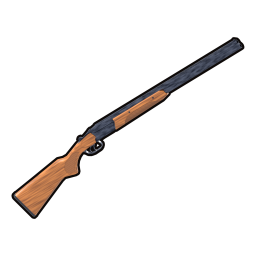
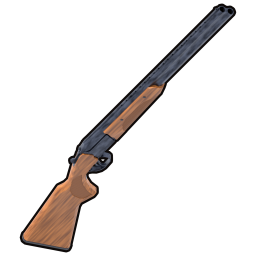
context: 10.10, вторая сессия — кнопки сюжета в меню отладки, ожидание у старосты, два слота оружия и кнопка ножа, карманный компьютер с картой; скрипты съёмки карты и значка

Changed region(s): [[0.0312, 0.0, 0.9688, 1.0]]

diff --git a/scripts/ue-remote/pda_map_capture_1010.py b/scripts/ue-remote/pda_map_capture_1010.py
@@ -1,0 +1,24 @@
+import unreal
+les = unreal.get_editor_subsystem(unreal.LevelEditorSubsystem)
+print('PIE', les.is_in_play_in_editor())
+w = unreal.get_editor_subsystem(unreal.UnrealEditorSubsystem).get_editor_world()
+print('WORLD', w.get_path_name())
+OUT = 'E:/game-dev-team/assets/pda_map_1010'
+rt = unreal.RenderingLibrary.create_render_target2d(w, 2048, 2048, unreal.TextureRenderTargetFormat.RTF_RGBA8)
+eas = unreal.get_editor_subsystem(unreal.EditorActorSubsystem)
+cap = eas.spawn_actor_from_class(unreal.SceneCapture2D, unreal.Vector(5500.0, -4370.0, 30000.0), unreal.Rotator(roll=0.0, pitch=-90.0, yaw=90.0))
+c = cap.capture_component2d
+c.set_editor_property('projection_type', unreal.CameraProjectionMode.ORTHOGRAPHIC)
+c.set_editor_property('ortho_width', 46875.0)
+c.set_editor_property('texture_target', rt)
+c.set_editor_property('capture_source', unreal.SceneCaptureSource.SCS_FINAL_COLOR_LDR)
+c.set_editor_property('capture_every_frame', False)
+pp = c.get_editor_property('post_process_settings')
+pp.set_editor_property('override_vignette_intensity', True); pp.set_editor_property('vignette_intensity', 0.0)
+pp.set_editor_property('override_auto_exposure_bias', True); pp.set_editor_property('auto_exposure_bias', 2.0)
+c.set_editor_property('post_process_settings', pp); c.set_editor_property('post_process_blend_weight', 1.0)
+c.capture_scene()
+unreal.RenderingLibrary.export_render_target(w, rt, OUT, 'T_PdaMap_raw.png')
+print('ROT', cap.get_actor_rotation(), 'UP', cap.get_actor_up_vector(), 'RIGHT', cap.get_actor_right_vector())
+eas.destroy_actor(cap)
+print('DIRTY maps', [p.get_name() for p in unreal.EditorLoadingAndSavingUtils.get_dirty_map_packages()])

diff --git a/scripts/ue-remote/reimport_shotgun_icon_1010.py b/scripts/ue-remote/reimport_shotgun_icon_1010.py
@@ -1,0 +1,11 @@
+import unreal
+eal = unreal.EditorAssetLibrary; at = unreal.AssetToolsHelpers.get_asset_tools()
+print('PIE', unreal.get_editor_subsystem(unreal.LevelEditorSubsystem).is_in_play_in_editor())
+ref = unreal.load_asset('/Game/UI/Icons/Items/T_Item_Pistol')
+PROPS = ['compression_settings', 'lod_group', 'mip_gen_settings', 'srgb', 'never_stream', 'filter']
+n = 'T_Item_Shotgun'
+t = unreal.AssetImportTask()
+for k, v in [('filename', 'E:/game-dev-team/assets/icons_1010/' + n + '.png'), ('destination_path', '/Game/UI/Icons/Items'), ('destination_name', n), ('replace_existing', True), ('automated', True), ('save', False)]: t.set_editor_property(k, v)
+at.import_asset_tasks([t]); tex = unreal.load_asset('/Game/UI/Icons/Items/' + n)
+for k in PROPS: tex.set_editor_property(k, ref.get_editor_property(k))
+print('ICON', n, tex.blueprint_get_size_x(), tex.blueprint_get_size_y(), eal.save_loaded_asset(tex, False))

diff --git a/scripts/ue-remote/pda_map_import_1010.py b/scripts/ue-remote/pda_map_import_1010.py
@@ -1,0 +1,10 @@
+import unreal
+eal = unreal.EditorAssetLibrary; at = unreal.AssetToolsHelpers.get_asset_tools()
+t = unreal.AssetImportTask()
+for k, v in [('filename', 'E:/game-dev-team/assets/pda_map_1010/T_PdaMap.png'), ('destination_path', '/Game/UI/Textures'), ('destination_name', 'T_PdaMap'), ('replace_existing', True), ('automated', True), ('save', False)]: t.set_editor_property(k, v)
+at.import_asset_tasks([t]); tex = unreal.load_asset('/Game/UI/Textures/T_PdaMap')
+tex.set_editor_property('lod_group', unreal.TextureGroup.TEXTUREGROUP_UI)
+tex.set_editor_property('mip_gen_settings', unreal.TextureMipGenSettings.TMGS_NO_MIPMAPS)
+tex.set_editor_property('never_stream', True); tex.set_editor_property('srgb', True)
+tex.set_editor_property('max_texture_size', 1024)
+print('MAP', tex.blueprint_get_size_x(), tex.blueprint_get_size_y(), eal.save_loaded_asset(tex, False))

diff --git a/assets/icons_1010/_work/icon_render.py b/assets/icons_1010/_work/icon_render.py
@@ -77,7 +77,7 @@ if mode == 'shotgun':
             print('MATERIAL %-22s %-10s -> %s' % (o.name, s.material.name, swap[s.material.name].name)); s.material = swap[s.material.name]
         smooth(o)
     # muzzle is +X in the source: turn it a little to the camera, show the top, lay the gun along the diagonal of the frame
-    BASE, YAW, PITCH, ROLL = Matrix(), -24.0, 20.0, -40.0
+    BASE, YAW, PITCH, ROLL = Matrix(), -56.0, 24.0, -76.0; MARGIN = 3  # 10.10: Rinat - the icon looked small, so the gun is foreshortened (muzzle to the camera) and fills the frame
 elif mode == 'ammo':
     o = lib_objects(sb.SRCD + 'low-poly-toz-34/source/toz34.blend', ('12/76',))[0]
     me = o.data; mw = o.matrix_basis.copy()

diff --git a/scripts/ue-remote/pda_map_check_1010.py b/scripts/ue-remote/pda_map_check_1010.py
@@ -1,0 +1,3 @@
+import unreal
+tex = unreal.load_asset('/Game/UI/Textures/T_PdaMap')
+print('MAP', tex.blueprint_get_size_x(), tex.blueprint_get_size_y(), tex.get_editor_property('max_texture_size'), tex.get_editor_property('lod_group'))

diff --git a/context/cpp-dev/context.md b/context/cpp-dev/context.md
@@ -3,16 +3,18 @@
 > Лёгкая рабочая память `cpp-dev` (правило H + Гигиена памяти из CLAUDE.md: стоп >150 строк, СЕЙЧАС вырезает прошлый). Закрытая история — в [archive.md](archive.md) (read-on-demand, НЕ для грунтовки). Build-логи — `Saved/` проекта, история — git.
 
 ## 🧭 СЕЙЧАС
-**2026-10-10. База учёных и двустволка (слова Рината 10.10 через лида). Проект `E:/ContrarySurvior/ContrarySurvivor`, ветка `feature/scientist-base-1009`, не пушить. Этап 1 ЗАКРЫТ: сборка без ошибок, проверки 220 из 220, коммит `2ae82c0` (журналы `logs/build_stage1_1010_a.log`, `logs/tests_stage1_1010_full.log`). Этап 2 ЗАКРЫТ: сборка редакторной цели без ошибок (`logs/build_stage2_1010_a.log`), проверки 225 из 225 (`logs/tests_stage2_1010_full.log`, новые пять — `logs/tests_stage2_1010_new.log`), коммит `d480f2f`, не отправлен. Полный прогон снова переписал `ContrarySave.sav` — копия возвращена, sha256 сошёлся. ИГРОВАЯ цель (сборка под телефон) НЕ собиралась — проверки под неё не проверены. Дальше — замечания лида и живая проверка Рината.**
-- **Конец сюжета (решение лида 10.10):** сообщение планирует не сценка старосты, а `AQuestGiverNPC::OnTalkClosed` после приёма ноутбука квестовым учёным (флаг `bForeignTurnInEndsStory`); страховка по сохранению смотрит журнал заданий (`IsStoryEndingQuest`), признак «уже показано» прежний.
+**2026-10-10. Сюжет: кнопки меню отладки, ожидание старосты, окно конца сюжета (задача лида, слова Рината 10.10). Проект `E:/ContrarySurvior/ContrarySurvivor`, ветка `feature/story-flow-1010`, коммит `9b68cb8`, не отправлен. Сборка редакторной цели без ошибок (`logs/build_story_1010_b.log`), проверки 228 из 228 (`logs/tests_story_1010_full.log`; затронутые отдельно — `logs/tests_story_1010_new.log`). Полный прогон снова переписал `ContrarySave.sav` — копия возвращена, sha256 сошёлся. ИГРОВАЯ цель не собиралась. Этапы «слоты оружия» и «карманный компьютер» делают другие программисты в своих копиях — не мои. Дальше — замечания лида и живая проверка Рината. Прошлая задача (база учёных, коммиты `2ae82c0`, `d480f2f`) закрыта.**
+- **Ожидание старосты:** после сценки про ноутбук `APlayerCharacter::MarkElderNotebookHintShown(сек)` пишет в сохранение признак сценки и отметку `ElderNotebookWaitEndPlayTime` (значение накопителя игрового времени, при котором ожидание кончается; меньше нуля = таймера нет, ждать нечего — так читаются старые сохранения). Копия признаков живёт в памяти героя (`IsElderNotebookHintShown`, `GetElderNotebookWaitRemaining`, `ReloadStoryStateFromSave`); все записи — только через героя. Длительность — поле старосты `NotebookWaitSeconds` (300). `TryUnlockThirdQuest` открывает третье задание только после конца ожидания; пока ждём, староста говорит прежнюю реплику `NotebookHintRepeatText`. Строка в списке заданий — `UQuestTrackerWidget` (`ElderWaitFormat`, `ElderWaitReadyText`, тот же текстовый блок, второй строкой под активным заданием); запасная рисованная строка экрана ожидание НЕ показывает.
+- **Меню отладки, раздел «Сюжет»:** `ContraryDebugTools::SetStoryElderOffersBanditQuest`, `SetStoryReadyToTurnInBanditLaptop`, `SkipElderNotebookWait`. Первая заодно возвращает базу бандитов к началу и стирает её запись из сохранения.
+- **Конец сюжета:** по коду сообщение планирует ТОЛЬКО `AQuestGiverNPC::OnTalkClosed` после приёма ноутбука квестовым учёным; страховка при загрузке смотрит журнал (`IsStoryEndingQuestTurnedIn`). Запись «по-прежнему после сценки» в прошлой памяти была неверной.
+- **⚠ Урок:** `LoadGameForContinue` на живом герое с вещами ЗАДВАИВАЕТ сумку (рассчитана на пустую сумку после запуска) — в проверках звать только на свежем герое либо сверять запись сохранения. `FMath::CeilToInt32(300.0f / 60.0f)` в этой сборке дал 6 — минуты считать целыми числами. В `perl s|…|…|` символ `\|` превращается в «или» — для текста с `||` брать `index/substr` или Edit.
 - **Задание расширено данными (`FQuest`, `Components/QuestComponent.h`):** `TurnInNpcTag` (кому сдавать; пусто = тому, кто выдал), `GiveOnAccept` и `RewardItems` (списки «строка таблицы предметов + число»), `TurnInHintText` (хвост строки на экране). `TurnInQuest(QuestId, ReceiverNpcTag)` отказывает, если метки не совпали; выдачу делает `APlayerCharacter::GiveItemFromRow` (патроны — числом, огнестрел — в сумку и без запаса класса). Нельзя выдать предмет — задание не берётся и не сдаётся. Те же поля добавлены в строку таблицы заданий.
 - **Собеседники (`Actors/TalkerNPC.h`):** `ATalkerNPC` (гуманоид, зона разговора, `NpcTag` — он же метка актора) отдаёт окну готовый вид `FNpcTalkView` через `BuildTalkView` и принимает основной ответ в `HandleTalkPrimary`; `AQuestGiverNPC` — своё задание и приём чужого. Окно то же (`UDialogScreenWidget::InitTalk`), признак тот же `bDialogOpen`, контроллер: `OpenTalk`, `SetNearbyTalker`, `EInteractKind::Talker`. Старого рисованного пути у собеседников НЕТ: без класса окна разговор не открывается.
 - **База учёных (`Actors/ScientistNPCs.h`):** `AScientistGuardNPC` (задание `FetchGuardRadio`, рация `guard_radio`, награда `shotgun_toz34` и 4 `ammo_12g`), `AScientistQuestNPC` (принимает ноутбук, потом заглушка), `AScientistHelmetNPC` (реклама за монеты: место показа `scientist_helmet`, серия — `Ads/AdSeriesLogic.h`, 3 подряд и 4 минуты), `AScientistTrader` (свой список товаров). Метки — `ScientistBaseTags`. Предмет задания на уровне — `Actors/QuestItemSpawner.h` (сам кладёт мешок, сверяется с журналом и сумкой раз в секунду).
-- **Третье задание старосты** `DeliverLaptopToScientists`: открывается в `AElderNPC::TryUnlockThirdQuest`, который контроллер зовёт при ОТКРЫТИИ разговора (второе сдано и сценка про ноутбук уже показана) — поэтому не в том же разговоре; лежит в журнале → `GetQuestForPlayer` отдаёт его. Для старосты готовое «чужое» задание остаётся «взято» (`GetElderDialogState`).
 - **⛔ Реклама у учёного на телефоне:** общий рекламный блок в боевом конфиге демонстрационный НАМЕРЕННО (издатель запретил один блок на несколько точек), поэтому точке нужен свой блок `AdUnitIdScientistHelmet` в `Config/DefaultEngine.ini` (файл лида, не трогаю). Пока его нет — учёный говорит «прибор не готов» (`IAdService::IsRewardedReadyFor`). В редакторе работает заглушка.
 - **Запас патронов при стволе** пишется в запись сохранения (`FSavedInventoryEntry::WeaponReserveAmmo`, меньше нуля = старая запись, для неё прежний перенос в сумку один раз) — «Продолжить» больше не дарит патроны; то же в сундуке.
 - **Добавка в тот же заход сборки (Ринат 10.10): «облезлость краски» машины** — `AAbandonedCar::PaintPeel` (0..1, по умолчанию 1) и `PaintPeelParamName` («PaintPeel»), пишется скалярным параметром в материалы кузова, дверей, капота и багажника внутри `ApplyPartColor`, независимо от перекраски; колёсам не идёт; при 1 без перекраски динамический материал не создаётся; у материала без такого параметра поле не действует. Параметр в `M_CarTripo` заводит лид. Включить в итоговый отчёт этапа 2, отдельным сообщением не слать.
-- **Не сделано и сказано лиду:** на экране отслеживается только первое активное задание журнала (при двух заданиях сразу метка одна); сообщение «конец сюжета» по-прежнему выходит после сценки про ноутбук; выброшенный или убранный в сундук предмет задания раскладчик положит заново.
+- **Не сделано и сказано лиду:** на экране отслеживается только первое активное задание журнала; выброшенный или убранный в сундук предмет задания раскладчик положит заново.
 - **Устройство двустволки, сундука и меню отладки (09.10)** — в `archive.md`, раздел «Двустволка, личный сундук, меню отладки (09–10.10.2026)».
 - **Приём:** `python` в оболочке нет; окончания строк в исходниках СМЕШАННЫЕ (часть файлов CRLF, часть LF) — править инструментом Edit либо `perl` с приведением к LF на время правки; проверять окончания `perl`-подсчётом `\r\n`, а не `grep $'\r'` (в этой оболочке не работает). Heredoc с русским текстом в Bash ломается только без кавычек у метки.
 

diff --git a/context/game-lead/context.md b/context/game-lead/context.md
@@ -3,7 +3,20 @@
 > Персональная (живая) память агента `game-lead`. Грунтовка сессии — ТОЛЬКО блок «🧭 СЕЙЧАС» ниже (правило bootstrap CLAUDE.md). Прошлое — `archive.md` (read-on-demand). Решения — `docs/decisions.md` (ADR). История — git. Дизайн-правда — `docs/contrary-survivor/`.
 > СТОП-правило гигиены: >150 строк ИЛИ Read обрезается → СНАЧАЛА чистка (вынос закрытого в archive.md, удаление перетёртого), потом работа. Дистилляция ВЫРЕЗАЕТ прошлый «СЕЙЧАС», не только дописывает.
 
-## 🧭 СЕЙЧАС (2026-10-10 — база учёных: персонажи, задания, двустволка и сундук сделаны и записаны в ветку, Ринатом вживую не проверены; сессия закрыта Ринатом, редактор закрыт)
+## 🧭 СЕЙЧАС (2026-10-10, вторая сессия — сюжетные кнопки отладки, ожидание у старосты, два слота оружия с кнопкой ножа, карманный компьютер с картой: слито в одну ветку, Ринатом вживую НЕ проверено; редактор открыт мной)
+
+**▶▶▶ 10.10 (вторая сессия). Игра: ветка `feature/story-flow-1010`, вершина `d8b53ef` (от `feature/scientist-base-1009`); в неё слиты `feature/pda-1010` (`333676a`) и `feature/weapon-slots-1010` (`3b4307a`). Сборка после слияния без ошибок (`logs/build_merge_1010_b.log`), 242 автопроверки зелёные (`logs/tests_merge_1010_full.log`), дополнение окон после слияния «сохранено 0» (`logs/wbp_augment_merge_1010.log`). В master не влито, qa-гейт не проходили, сборки под телефон нет. ВЖИВУЮ НИЧЕГО НЕ ПРОВЕРЕНО.**
+- **Меню отладки («ъ»), раздел «Сюжет»:** «староста выдаёт задание на бандитов» (заодно возвращает базу бандитов к началу), «сдать старосте ноутбук бандитов», «пропустить ожидание у старосты».
+- **Ожидание:** после сценки про ноутбук таймер игрового времени (поле старосты, 300 с), строка с остатком в списке заданий (тексты — поля класса окна `WBP_QuestTracker`), третье задание только после таймера; во время ожидания звучит прежняя реплика «Копаюсь в ноутбуке…».
+- **Окно конца сюжета** менять не пришлось: по коду оно уже выходило только после сдачи ноутбука квестовому учёному (моя запись «после сценки» была неверной).
+- **Оружие:** слот пистолета и слот длинного оружия (`ARangedWeapon::FirearmSlot`), кнопка смены: два ствола — между ними, один — ствол и нож; нож — клавиша V, средняя кнопка мыши и экранная кнопка (видна только с огнестрелом в руках). В `WBP_TouchControls` и `WBP_Inventory` только добавлены элементы (слот длинного оружия встал под слотом штанов). Клавиши 1 и 2 заняты отладкой (деньги, снимок) — прямой выбор слота не привязан. Сектор удара при ударе с кнопки не подсвечивается.
+- **КПК:** клавиша M, на телефоне кнопка «КПК» слева от сумки (кодом); вкладки «Задания» и «Карта»; основные задания оранжевые, побочные синие; отслеживаемое задание выбирается и пишется в сохранение. Мир при открытом КПК НЕ на паузе (как сумка). Картинка карты `T_PdaMap` снята мной сверху (`scripts/ue-remote/pda_map_capture_1010.py`: камера над (5500, −4370), ширина 46875, поворот pitch −90 yaw 90; верх = +Y, право = −X), подключена в `Config/DefaultGame.ini`; тёмная, с длинными тенями — черновик.
+- **Значок двустволки** перерисован крупнее (`assets/icons_1010/_work/icon_render.py`, ружьё стволом к зрителю).
+- **Рабочие копии программистов** `E:/ContrarySurvior/ws-weapons` и `ws-pda` (git worktree) не удалены; заметки — `context/cpp-dev/notes-weapon-slots-1010.md`, `notes-pda-1010.md`. Копия сохранений до прогона — `E:/ContrarySurvior/_save_backup_1010`.
+- **Приём:** три программиста параллельно в отдельных git worktree, сборка с `-WaitMutex`; слияние дало один конфликт (`QuestTrackerWidget`), решён руками.
+- **Замечено попутно, не проверено:** `LoadGameForContinue` на герое с непустой сумкой задваивает вещи; проверка окон генератором красная по 14 старым замечаниям к файлам Рината.
+
+**(первая сессия 10.10 — ниже)**
 
 **Выпуск:** 0.3.1 (7) ОПУБЛИКОВАН в RuStore 07.10 (ADR-098). Ветка игры `release/0.3.1-build7` = `81a64ca`, она же вершина рабочей `feature/first-fight-1006`. Все ветки выпусков и рабочие ветки 07.10 отправлены на сервер (коммитов вне сервера 0). В master не влито, qa-гейт не проходили. На телефоне стоит эта же сборка для магазина (боевая подпись, отладочных клавиш нет).
 **Ветки:** игра `feature/first-fight-1006` (вершина `81a64ca`, на сервере); команда `docs/phase0-gdd`. Редактор: `E:/UnrealEngine/UE_5.5/Engine/Binaries/Win64/UnrealEditor.exe <uproject>`; перед закрытием — `dirty_check.py` (несохранённое Рината не убивать, спросить). НАМЕРЕННО не закоммичены: `Config/DefaultEngine.ini` (пароли ключа подписи — НИКОГДА; версия в нём коммитится через индекс без паролей, см. коммит `b269a44`), `Content/Maps/Tmp_ToolsCarShowcase.umap`, `LowPolyMarket/*.fbx|psd`, `context/modeler-3d/context.new`, txt Рината про olama. Редактор закрыт.

diff --git a/context/cpp-dev/notes-pda-1010.md b/context/cpp-dev/notes-pda-1010.md
@@ -1,0 +1,23 @@
+# Заметки третьего программиста: КПК (10.10.2026)
+
+Копия `E:/ContrarySurvior/ws-pda`, ветка `feature/pda-1010` от `410e042`, коммит `333676a`, на сервер не отправлен.
+Сборка редакторной цели без ошибок (`logs/build_pda_1010_a.log` полная, `logs/build_pda_1010_b.log` повторная, обе EXIT=0). Автопроверки: 232 успешных, 0 упавших (`logs/tests_pda_1010_full.log`); новые семь — `ContrarySurvivor.Pda.*` (`logs/tests_pda_1010_new.log`). Старые проверки править не пришлось. Игровая цель (сборка под телефон) НЕ собиралась.
+
+## Устройство
+- **Вид задания:** `EQuestKind` (Main, Side) и поле `FQuest::Kind`; `FQuest::GiverNpcTag` — кто выдал (пусто = староста). Проставлено в `ElderNPC.cpp` (три основных), `ScientistNPCs.cpp` (охранник побочное), `TalkerNPC.cpp` (у прочих собеседников по умолчанию побочное, выдавший = их метка), строка таблицы `FContraryQuestRow::Kind` (по умолчанию основное — две существующие строки таблицы это задания старосты; файл таблицы не менялся). `OfferQuest` у уже лежащего в журнале задания обновляет вид и выдавшего — так лечатся задания из старых сохранений.
+- **Отслеживаемое:** `UQuestComponent::TrackedQuestId`, `GetTrackedQuest()` (выбранное, иначе первое идущее), `SetTrackedQuest`, `GetTrackedQuestId`; `RestoreQuests(Journal, SavedTrackedId)`. В сохранении — `UContrarySaveGame::TrackedQuestId`.
+- **Цель задания — один источник:** `UI/QuestTargets.h` (`FindTargetActor`, имена выдавшего и принимающего). HUD (`DrawQuestTargetMarker`) зовёт его вместо своего перебора; ключ кэша цели дополнен идентификатором задания.
+- **Настройки:** `Data/ContraryPdaSettings.h` — Project Settings → Game → «Contrary Survivor: КПК и карта»: цвета основных и побочных, картинка карты (`MapTexture`), углы карты в мире (`MapWorldTopLeft`, `MapWorldBottomRight`).
+- **Окно:** `UI/PdaScreenWidget.h/.cpp` (`UPdaScreenWidget`, кнопка с заданием `UPdaQuestButton`, экранная кнопка `UPdaTouchButtonWidget`). Раскладка описана ОДИН раз в `UPdaScreenWidget::BuildDefaultTree` — им пользуются и генератор (`BuildPda`), и кодовая запаска. Файл `Content/UI/WBP_Pda.uasset` создан `-rebuild -asset=WBP_Pda` (`logs/wbp_pda_create_1010.log`), `-verify` по нему чист (`logs/wbp_verify_1010.log`; три ошибки там — в чужих окнах TouchControls, Shop, Dialog, я их не трогал). Контроллер находит файл окна сам (поиск в конструкторе, как у плашки конца сюжета) — слоты в Blueprint контроллера и HUD не менялись.
+- **Контроллер:** `bPdaOpen`, `OnTogglePda/OpenPda/ClosePda`, клавиша M (`BindKey`, без строки в ini), Esc и «Назад» закрывают через `OnTogglePauseMenu`. Мир НЕ останавливается — ровно как у сумки (сумка паузу не ставит, глушит ходьбу и стрельбу признаком).
+- **Событие статистики:** `pda:opened`.
+
+## Карта: что снимать
+- Камера героя: штанга повёрнута на 90° (снято с `BP_PlayerCharacter`, `logs/pda_level_dump.txt`), значит на экране вверх = +Y мира, вправо = −X мира.
+- Прямоугольник по умолчанию — игровая зона `BP_WorldBorder` целиком: центр (5500, −4370), квадрат 46875 × 46875 см. X от −17937.5 до 28937.5, Y от −27807.5 до 19067.5.
+- Картинка: верх кадра смотрит в +Y, правый край — в −X. Левый-верхний угол картинки = (28937.5, 19067.5), правый-нижний = (−17937.5, −27807.5). Квадратная.
+- Положения мест (`logs/pda_level_dump.txt`): деревня (−3950, −4650), лагерь бандитов (6940, 9070), логово волков (13943, −5998), второе логово (−6080, −13940), охранник базы учёных (7539, −15651), костры (−3880, −4320) и (8338, −15941).
+
+## Не проверено
+- Живой вид окна и карты в игре, клавиша M и кнопка на телефоне — смотрит Ринат.
+- Попадает ли `WBP_Pda` в сборку под телефон (окно находится поиском из кода, а не ссылкой из Blueprint). Если не попадёт — окно построится кодом в том же виде, но правки файла мышкой на телефоне не будут видны; лечится папкой `/Game/UI` в списке «всегда упаковывать» либо слотом в Blueprint контроллера.

diff --git a/context/cpp-dev/notes-weapon-slots-1010.md b/context/cpp-dev/notes-weapon-slots-1010.md
@@ -1,0 +1,22 @@
+# Заметки: два слота огнестрела и кнопка ножа (10.10.2026)
+
+Копия `E:/ContrarySurvior/ws-weapons`, ветка `feature/weapon-slots-1010`, коммит `3b4307a` поверх `410e042`, на сервер не отправлен. Сборка редакторной цели без ошибок (`logs/build_weapon_slots_final.log`), проверки 232 из 232 (`logs/tests_weapon_slots_full.log`). Игровая цель (телефон) НЕ собиралась.
+
+## Устройство
+- Слот — признак ствола: `ARangedWeapon::FirearmSlot` (`EFirearmSlot::Sidearm` / `Long`), у `AShotgun` — `Long`.
+- Игрок: `SidearmWeaponInstance`, `LongWeaponInstance`, `PreferredFirearmSlot` (последний ствол в руках). Доступ: `GetFirearmInSlot`, `IsSlotFirearm`, `GetEquippedFirearmCount`, `SelectFirearmSlot`, `TakeKnifeInHands`, `UnequipFirearmToBackpack`. `GetRangedWeaponInstance()` оставлен как «ствол в руках, иначе тот, что возьмёт кнопка смены» — старые экранные проверки рассинхрона на нём работают без правок.
+- `TryAdoptRangedWeapon` / `SwapRangedWeaponFromBackpack` работают со слотом вида этого ствола.
+- Нож с кнопки: `APlayerCharacter::QuickMeleeAttack` → `AMeleeWeapon::StartSwing` (тот же удар). Метка анимации берёт нож через `AMasterHumanoidCharacter::GetSwingMeleeWeapon` (у игрока — всегда его нож). На время `QuickMeleeLockTime` (0,6 с) ствол спрятан, нож прикреплён к ладони (`AttachWeaponToHand`, вынесено из `EquipWeapon`), `FireCurrentWeapon` игрока не стреляет.
+- Сохранение: по записи с `bEquipped` на каждый занятый слот, поле `UContrarySaveGame::WeaponInHands` (`Unknown` у старых записей — руки не трогаются).
+- Перезарядка в проекте мгновенная (таймера нет), поэтому вопрос «замах и перезарядка» не возникает.
+
+## Готовые файлы окон
+- Добавлено дополнением: `MeleeButton` + `MeleeButtonIcon` в `WBP_TouchControls`; `LongSlotButton` (внутри подпись, значок, название) и `RangedSlotButton` в `WBP_Inventory`. Функции `AugmentTouchMeleeButton`, `AugmentInventoryWeaponSlots`.
+- Раскладка сумки у Рината своя: средняя колонка занята пистолетом и ножом, третий слот встал под слотом штанов. Наивное «ниже ножа с тем же шагом» вылезало за подложку — сначала смотреть снимок раскладки, потом ставить.
+- Проверка окон (`-verify`) на базовом снимке уже красная (14 старых замечаний к файлам Рината); доказательство — одинаковый список до и после.
+- Двоичные файлы окон между ветками не сливаются: после слияния взять любую версию и прогнать дополнение ещё раз.
+
+## Не сделано
+- Клавиши 1 и 2 заняты отладочными действиями Рината (деньги и снимок экрана) — прямой выбор слота с клавиатуры не привязан, функция `SelectFirearmSlot` есть.
+- Подсветка сектора удара показывается только с ножом в руках (как раньше), при ударе с кнопки её нет.
+- Модель длинного оружия за спиной — не просили.
